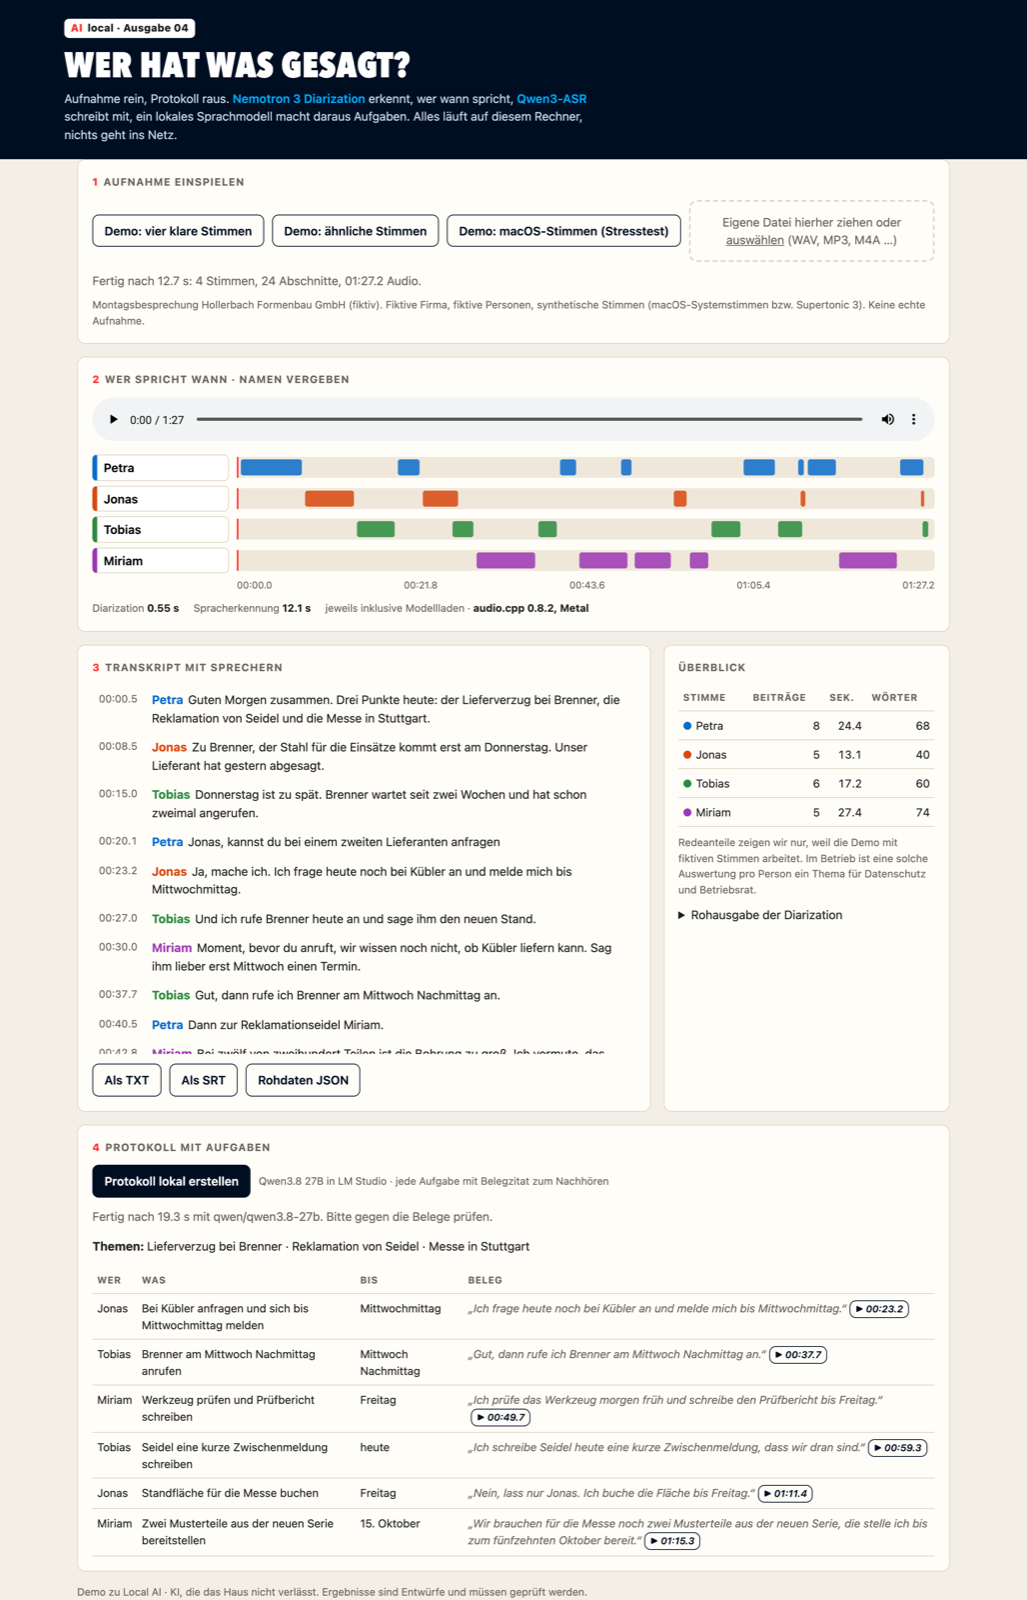
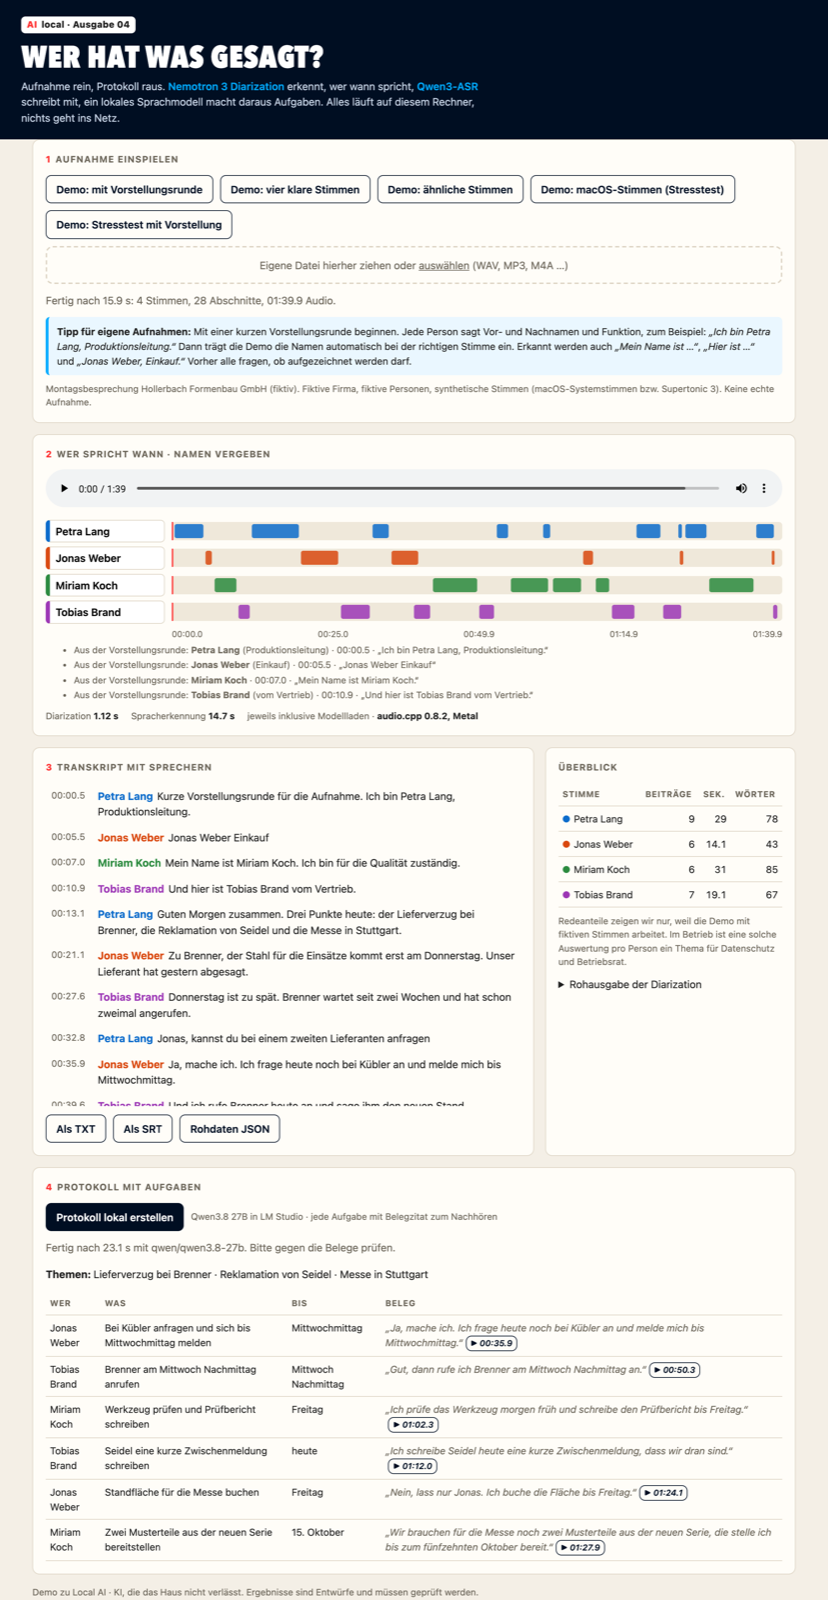
docs: introduction-round screenshot and privacy wording

Changed region(s): [[0.0, 0.0, 1.0, 1.0]]

diff --git a/README.md b/README.md
@@ -2,7 +2,7 @@
 
 Eine Besprechungsaufnahme lokal in ein Protokoll mit Aufgaben, Verantwortlichen und Terminen verwandeln. Die Demo gehört zu **Local AI, Ausgabe 04**, dem deutschen LinkedIn-Newsletter von Christian Hubmann.
 
-Drei Bausteine, alle auf dem eigenen Rechner:
+Vier Schritte, alle auf dem eigenen Rechner:
 
 1. **Nemotron 3 Diarization** (NVIDIA, 23.09.2026) erkennt, wer wann spricht. Das Modell gibt keine Namen und keinen Text aus, sondern nur Sprecher 1, 2, 3 mit Zeitstempeln.
 2. **Qwen3-ASR 0.6B** schreibt jeden erkannten Abschnitt auf Deutsch mit.
@@ -29,7 +29,7 @@ lms server start
 lms load qwen/qwen3.8-27b
 ```
 
-Auf der Seite eine Demo-Besprechung wählen oder eine eigene Datei hineinziehen. Namen werden aus der Vorstellungsrunde übernommen oder von Hand eingetragen, dann „Protokoll lokal erstellen“.
+Auf der Seite eine Demo-Besprechung wählen oder eine eigene Datei hineinziehen. Namen werden aus der Vorstellungsrunde übernommen oder von Hand eingetragen, dann „Protokoll lokal erstellen“. Der Server lauscht nur auf 127.0.0.1; Aufnahmen, Transkripte und Protokolle bleiben im Ordner `jobs/`.
 
 ## Tipp: Vorstellungsrunde
 
@@ -40,7 +40,7 @@ Damit die Namen automatisch bei der richtigen Stimme landen, stellt sich zu Begi
 - „Hier ist Tobias Brandt vom Vertrieb.“
 - „Jonas Weber, Einkauf.“
 
-Ausgewertet wird nur die erste Minute. Nennt eine Stimmspur zwei verschiedene Namen, zeigt die Seite eine Warnung: Dann hat das Modell vermutlich zwei Personen zusammengelegt. Gleich klingende Nachnamen („Brand“ statt „Brandt“) gegenlesen oder buchstabieren. Im selben Moment lässt sich gut fragen, ob alle mit der Aufnahme einverstanden sind. Der Server lauscht nur auf 127.0.0.1; Aufnahmen, Transkripte und Protokolle bleiben im Ordner `jobs/`.
+Ausgewertet wird nur die erste Minute. Nennt eine Stimmspur zwei verschiedene Namen, zeigt die Seite eine Warnung: Dann hat das Modell vermutlich zwei Personen zusammengelegt. Gleich klingende Nachnamen („Brand“ statt „Brandt“) gegenlesen oder buchstabieren. Im selben Moment lässt sich gut fragen, ob alle mit der Aufnahme einverstanden sind.
 
 Ohne Oberfläche:
 
@@ -99,7 +99,7 @@ Das hier ist keine Rechtsberatung, aber drei Punkte gehören vor jeden echten Te
 
 - **Einwilligung:** Nichtöffentlich gesprochenes Wort ohne Befugnis aufzunehmen ist nach § 201 StGB strafbar. Alle Beteiligten müssen vorher zustimmen.
 - **Betriebsrat:** Eine Auswertung wie Redezeit pro Person ist objektiv geeignet, Verhalten oder Leistung zu überwachen. Nach § 87 Abs. 1 Nr. 6 BetrVG reicht diese Eignung für die Mitbestimmung. Die Oberfläche zeigt Redeanteile nur, weil die Demo mit fiktiven Stimmen arbeitet.
-- **Stimme als Merkmal:** Wer Personen anhand ihrer Stimme wiedererkennt, verarbeitet biometrische Daten. Diese Demo tut das nicht: Namen vergibt ein Mensch von Hand.
+- **Stimme als Merkmal:** Wer Personen anhand ihrer Stimme wiedererkennt, verarbeitet biometrische Daten. Diese Demo tut das nicht: Namen kommen aus dem, was eine Person in der Vorstellungsrunde selbst sagt, oder werden von Hand eingetragen. Ein Stimmprofil wird nicht gespeichert.
 
 ## Aufbau
 
